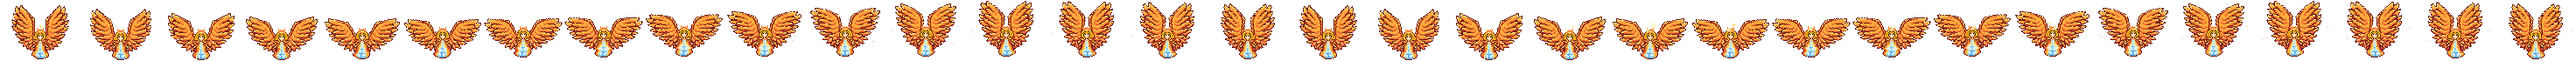
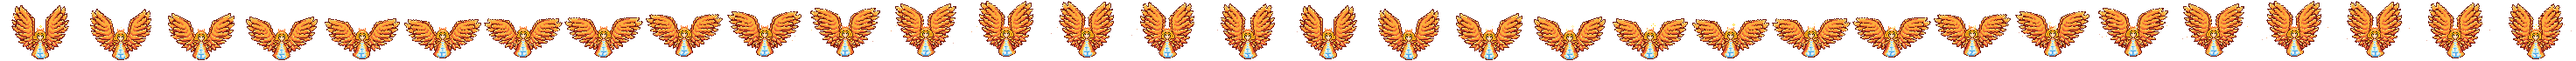
Mary-Animation: nur die Arme bewegen sich (Maske aus dem Körperumriss), das Kleid bleibt stehen, Flügel scheinen durch
Claude-Session: https://claude.ai/code/session_01RGNNCJqx66xqfQieuakpGz

diff --git a/scripts/hero-animations/mary.py b/scripts/hero-animations/mary.py
@@ -14,7 +14,7 @@ src/cute-princess-mary.png).
   sie etwas ab.
 * Glut: von den Flügelspitzen lösen sich beim Abschlag kleine Funken.
 * Körper (`body_layer`): die Haare wehen (die Außenkante der Strähnen am Kopf wird zeilenweise verschoben, die langen Locken unter den
-  Schulterpolstern sind dieselbe Strähne und schwingen mit derselben, nur verzögerten Welle mit), die Arme schwingen als Einheiten seitwärts (Ärmel samt Hand um die Schulter, ohne dass die Hand wächst), der Saum
+  Schulterpolstern sind dieselbe Strähne und schwingen mit derselben, nur verzögerten Welle mit), die Arme schwingen als Einheiten seitwärts (Ärmel samt Hand und Umriss um die Schulter; das Kleid bleibt stehen, die Flügel dahinter werden sichtbar), der Saum
   des Kleides schwingt, und das Feuer am Kleid flackert (Farben wandern auf der Leiter Rot → Orange → Gelb nach oben). Der Kopf selbst
   bleibt starr (kein Dehnen und Stauchen).
 * Krone: ein Lichtband wandert einmal pro Schleife über die Krone; danach blitzen Glitzersterne über den Zacken auf.
@@ -103,6 +103,43 @@ CROWN = (35, 42, 21, 25)                      # x0, x1, y0, y1 der Krone
 SPARKS = [(42, 18, 18), (35, 18, 24), (39, 19, 29)]   # Glitzersterne über den Zacken: (x, y, Startframe)
 
 
+def _arm_masks():
+    """Pixelmengen der beiden Arme in der Körperebene. Der Umriss (dunkles Rot) trennt die Teile der Figur; ein Arm ist die zusammenhängende
+    Fläche, in der die Hand liegt (links bei (30, 42), rechts bei (47, 42)), samt seinem äußeren Umriss. Umrisspixel, an denen auch Kleid,
+    Schulterpolster oder Haar grenzen, gehören nicht dazu: sie bleiben stehen."""
+    from collections import deque
+    alpha = BODY[..., 3] > 0
+    line = np.array([[tuple(BODY[y, x, :3]) == (0x6f, 0x1a, 0x13) for x in range(SW)] for y in range(SH)])
+    lab = np.zeros((SH, SW), int)
+    n = 0
+    for y0 in range(SH):
+        for x0 in range(SW):
+            if alpha[y0, x0] and not line[y0, x0] and not lab[y0, x0]:
+                n += 1
+                lab[y0, x0] = n
+                q = deque([(y0, x0)])
+                while q:
+                    cy, cx = q.popleft()
+                    for dy, dx in ((1, 0), (-1, 0), (0, 1), (0, -1)):
+                        ny, nx = cy + dy, cx + dx
+                        if 0 <= ny < SH and 0 <= nx < SW and alpha[ny, nx] and not line[ny, nx] and not lab[ny, nx]:
+                            lab[ny, nx] = n
+                            q.append((ny, nx))
+    out = {}
+    for side, (hy, hx) in ((-1, (42, 30)), (1, (42, 47))):
+        core = lab == lab[hy, hx]
+        others = alpha & ~line & ~core
+        def near(mask, y, x):
+            return mask[max(0, y - 1):y + 2, max(0, x - 1):x + 2].any()
+        outline = {(y, x) for y in range(SH) for x in range(SW)
+                   if line[y, x] and near(core, y, x) and not near(others, y, x)}
+        out[side] = sorted({(y, x) for y, x in zip(*np.nonzero(core))} | outline)
+    return out
+
+
+ARMS = _arm_masks()
+
+
 def hair_shift(y, i):
     """Seitlicher Versatz der Außenkante der Haare in Zeile y (Wind von links). Die Welle läuft von oben nach unten durch die ganze
     Strähne, auch durch die langen Locken unter den Schulterpolstern: dieselbe Formel, nur Zeile für Zeile verzögert, damit sie sich
@@ -138,27 +175,18 @@ def body_layer(i):
             out[y, lo:hi + 1] = 0
             seg = warp_row(BODY[y], a, b, d, side)
             out[y, lo:hi + 1] = np.where(seg[lo:hi + 1, 3:4] > 0, seg[lo:hi + 1], out[y, lo:hi + 1])
-    # 2) Arme schwingen seitwärts, jeder Arm als Einheit (Ärmel samt Hand, Zeilen 40–47 zwischen Außenkante und Kleid) um die Schulter: die
-    #    oberen Zeilen bewegen sich kaum, der Ärmelsaum unten am weitesten (Scherung ≈ Drehung). Die Hand wird dabei nicht größer, sondern
-    #    wandert mit; der Spalt zum Kleid wird mit der Innenkante des Arms gefüllt.
+    # 2) Arme schwingen seitwärts, jeder Arm als Einheit (Ärmel samt Hand und äußerem Umriss, siehe ARMS) um die Schulter: die obersten Zeilen
+    #    bewegen sich kaum, die Hand am weitesten (Scherung ≈ Drehung). Das Kleid bleibt stehen. Wo der Arm war, bleibt das Feld leer, dort
+    #    scheinen die Flügel dahinter durch.
     o = max(-1, int(round(3.0 * math.sin(ph - 1.6))))                  # > 0: nach außen
-    for side in (-1, 1):
-        xa, xb = (29, 36) if side < 0 else (MIRROR - 36, MIRROR - 29)
-        inner = xb if side < 0 else xa
-        for y in range(40, 48):
-            dx = int(round(o * (y - 38) / 9.0))
-            if not dx:
-                continue
-            arm = {x: out[y, x].copy() for x in range(xa, xb + 1)}
-            for x in range(xa, xb + 1):
+    if o:
+        for side in (-1, 1):
+            px_ = {(y, x): out[y, x].copy() for y, x in ARMS[side]}
+            for (y, x) in px_:
                 out[y, x] = 0
-            for x, c in arm.items():
-                if c[3]:
-                    out[y, x + side * dx] = c
-            for k in range(max(0, dx)):                                   # Spalt zwischen Arm und Kleid füllen
-                gx = inner + side * k
-                if not out[y, gx, 3]:
-                    out[y, gx] = arm[inner]
+            for (y, x), c in px_.items():
+                dx = int(round(o * min(1.0, max(0.0, (y - 37) / 6.0))))
+                out[y, x + side * dx] = c
     # 3) Saum schwingt
     for y in range(48, 56):
         dx = int(round(math.sin(ph - 2.2 - 0.3 * (y - 47)) * (y - 47) / 7.0 * 1.2))
